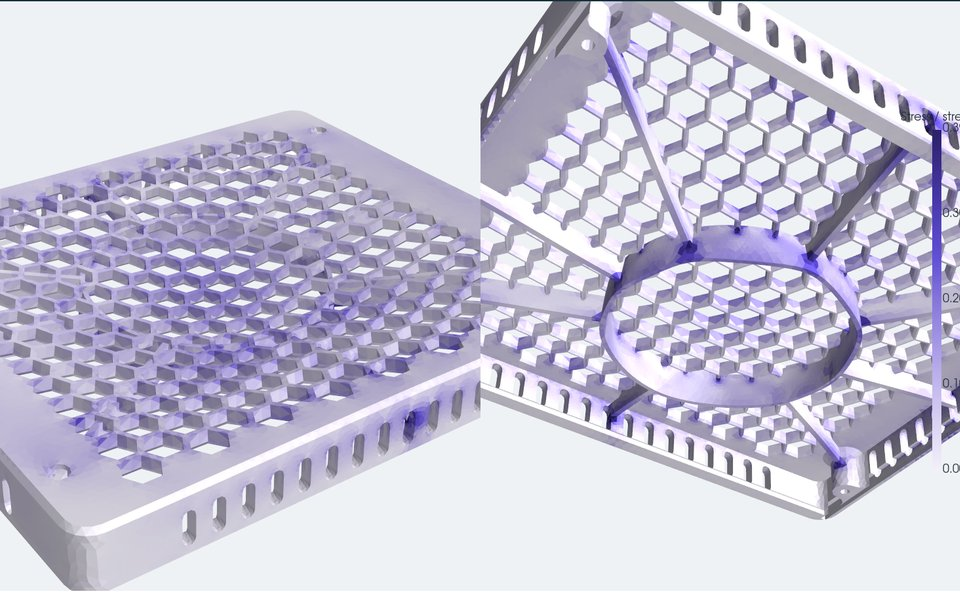
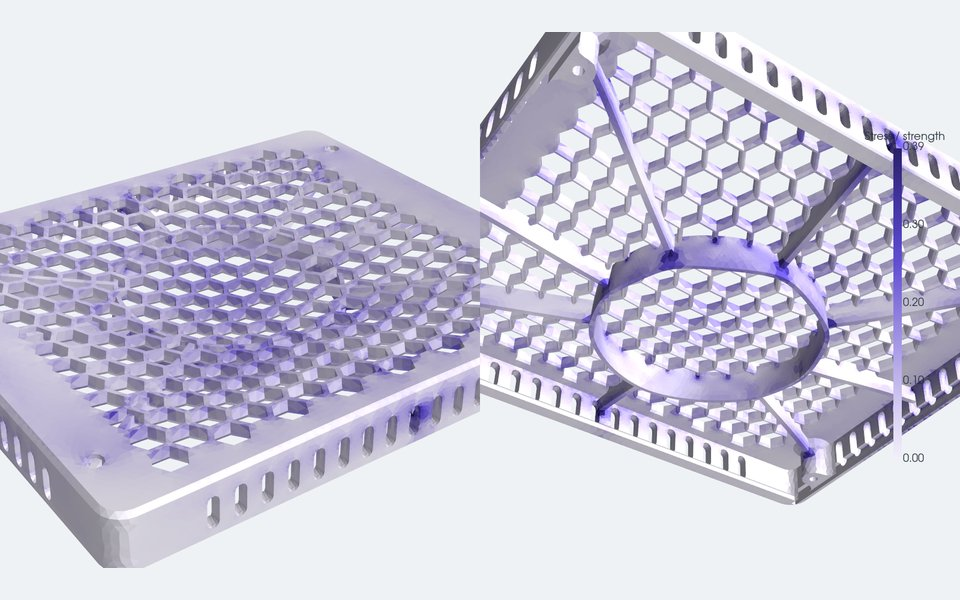
README: gmsh is GPL and imported by the fea extra (not a separate program); FEA thumbnail keeps its whole stress/strength legend

diff --git a/README.md b/README.md
@@ -12,7 +12,7 @@ print files, reports and a linked review site. It works with Claude Code first, 
 <table>
 <tr>
 <td width="33%"><img src="docs/img/viewer.jpg" alt="3D viewer"><br><b>3D viewer and review site.</b> Every part in place, with explode, section and one top bar linking every report.</td>
-<td width="33%"><img src="docs/img/fea.jpg" alt="FEA of an enclosure lid"><br><b>Strength.</b> FEA of a ribbed lid under a 300 N press, with the stress shown on the part.</td>
+<td width="33%"><img src="docs/img/fea.jpg" alt="FEA of an enclosure lid"><br><b>Strength.</b> FEA of a ribbed lid under a 300 N press, coloured by stress as a fraction of the material's strength.</td>
 <td width="33%"><img src="docs/img/topology.jpg" alt="Topology optimisation of an enclosure floor"><br><b>Less material.</b> Topology optimisation keeps only the floor that carries load.</td>
 </tr>
 </table>
@@ -116,9 +116,9 @@ flowchart LR
 
 - **Adopt.** Six upstreams are vendored under `vendor/`, pinned by commit, scanned and updated weekly through a
   reviewed process ([`SECURITY.md`](SECURITY.md), [`WEEKLY-UPDATE.md`](WEEKLY-UPDATE.md)): text-to-cad,
-  kicad-happy and kicad-mcp-pro (MIT), and build123d-mcp, agentcad and bd_warehouse (Apache-2.0). GPL and AGPL
-  tools such as OpenFOAM run only as separate programs. Licences are in
-  [`THIRD_PARTY_NOTICES.md`](THIRD_PARTY_NOTICES.md).
+  kicad-happy and kicad-mcp-pro (MIT), and build123d-mcp, agentcad and bd_warehouse (Apache-2.0). OpenFOAM (GPL)
+  and Bambu Studio (AGPL) run only as separate programs. gmsh (GPL) is imported, but only by the optional `fea`
+  extra. Licences are in [`THIRD_PARTY_NOTICES.md`](THIRD_PARTY_NOTICES.md).
 - **Learn.** [`lessons/`](lessons/) holds ten sets of rules mined from real design sessions, each citing its source.
   They cover verifying from source, connectors, fasteners, evidence, simulation and material.
 - **Evaluate, then fill the gaps.** Each tool is scored on the same tasks. What wins gets adopted, the gaps go
